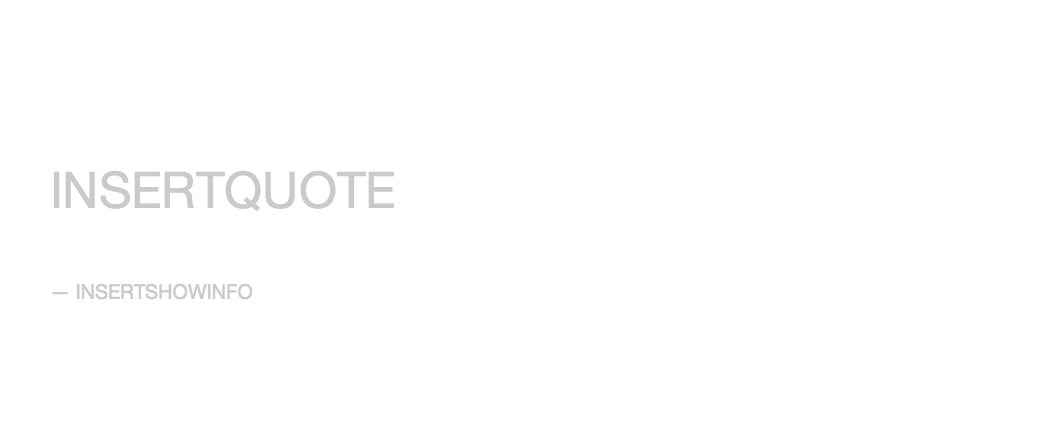
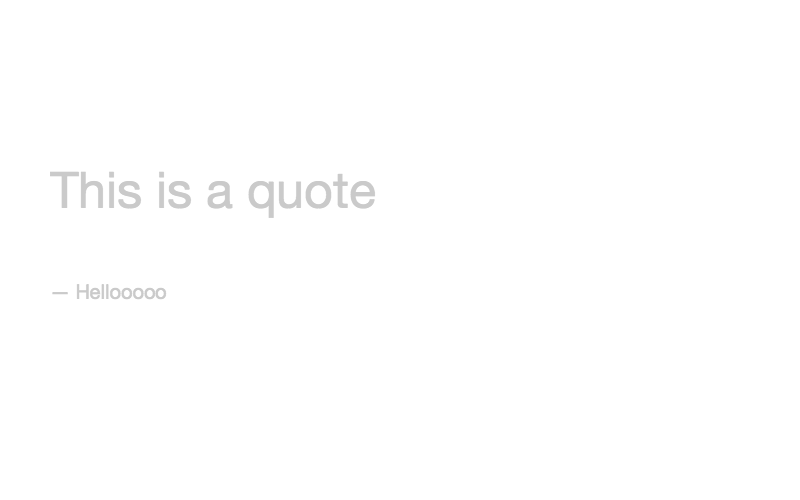
the text part

Changed region(s): [[0.0312, 0.3373, 0.4688, 0.4906], [0.0625, 0.6439, 0.25, 0.7052], [0.0938, 0.5519, 0.2188, 0.6132]]

diff --git a/fake.html b/fake.html
@@ -20,6 +20,10 @@ canvas {
   padding: 100px 50px 100px 50px;
 
 }
+
+.light {
+  background-color: transparent;
+}
 .g-text-wrapper p {
   font-size: 50px;
   font-family: "Helvetica Neue", Helvetica, Arial, sans-serif;;
@@ -37,19 +41,19 @@ p.nudge {
 
 
 </style>
-<!-- <script src="https://cdnjs.cloudflare.com/ajax/libs/d3/3.5.5/d3.min.js"></script> -->
+<script src="https://cdnjs.cloudflare.com/ajax/libs/d3/3.5.5/d3.min.js"></script>
 
 
 <body>
-<script src="d3.js"></script>
-<script src="d3-jetpack.js"></script>
+<!-- <script src="d3.js"></script> -->
+<script src="/javascripts/d3-jetpack.js"></script>
 
 <div class="g-text-wrapper">
   <p>For the last year, I've spent every working day, trying to figure out where a high school kid was, for an hour after school one day in 1999.</p>
   <p class="nudge">— Sarah Koenig, Serial, Episode 1</p>
 </div>
-<audio id="myAudioF" src="clip.m4a"></audio>
-<audio id="myAudioW" src="clip.m4a"></audio>
+<audio id="myAudioF" src="/media/clip.m4a"></audio>
+<audio id="myAudioW" src="/media/clip.m4a"></audio>
 
 <script>
 
@@ -58,11 +62,6 @@ var width = 1040,
     radius = 80;
 
 var fillColor, strokeColor;
-  
-var themeBackground = 'light';
-  if (themeBackground == 'light') {
-    d3.select(".g-text-wrapper").style("background-color", "transparent")
-  }
 
 window.onload = function(){
   ctx = new AudioContext();
@@ -123,12 +122,6 @@ window.onload = function(){
   var x = d3.scale.linear().domain([0, dataArray.length]).range([0, width])
   var y = d3.scale.linear().domain([0, 300]).range([0, height])
 
-
-  var themeBackground = 'light';
-  if (themeBackground == 'light') {
-    d3.select(".g-text-wrapper").style("background-color", "transparent")
-  }
-
   function renderFrame(theme) {
     requestAnimationFrame(renderFrame);
 
@@ -144,12 +137,13 @@ window.onload = function(){
 
       canvasCtx.lineTo(x(i), y(d)+d)
 
-      if (themeBackground == 'light') {
-        canvasCtx.strokeStyle = "rgba(0,0,0," + d/400 + ")"  
+      if (theme == "light") {
+        var strokeColor = "rgba(0,0,0," + d/400 + ")"  
       } else {
-        canvasCtx.strokeStyle = "rgba(255,255,255," + d/400 + ")"  
+        var strokeColor = "rgba(255,255,255," + d/400 + ")"  
       }
-      
+
+      canvasCtx.strokeStyle = strokeColor
     })
     canvasCtx.stroke()
 
@@ -161,10 +155,10 @@ window.onload = function(){
 
     canvasFCtx.clearRect(0, 0, canvas.width, canvas.height);
     for (var i = 0; i < analyserF.frequencyBinCount; i++) {
-        if (themeBackground == "light") {
-          fillColor = "rgba(0,0,0," + frequencyData[i]/1000 + ")"
+        if (theme == "light") {
+          fillColor = "rgba(0,0,0," + frequencyData[i]/400 + ")"
         } else {
-          fillColor = "rgba(255,255,255," + frequencyData[i]/1000 + ")"
+          fillColor = "rgba(255,255,255," + frequencyData[i]/400 + ")"
         }
 
         var radius = frequencyData[i]/Math.PI;

diff --git a/public/javascripts/capture.js b/public/javascripts/capture.js
@@ -10,12 +10,12 @@ var textcolor = system.args[3]
 if (textcolor == undefined) {
     textcolor = '#bcbcbc'
 }
-console.log("lsdfhlskdjflkds")
-page.content = '<style>.g-text-wrapper {  position: absolute;  width: 700px; height: 300px; padding: 100px 50px 100px 50px;}.g-text-wrapper p {  font-size: 50px;  font-family: "Helvetica Neue", Helvetica, Arial, sans-serif;;  font-weight: 100;  color:' + textcolor + ';  opacity: 0.8;  vertical-align: middle;  margin-top:60px;}p.nudge {  font-size: 20px;  letter-spacing: 0.8px;}</style><div class="g-text-wrapper">  <p>' + quote + '</p>  <p class="nudge">— ' + show + '</p></div>';
+
+page.content = '<style>.g-text-wrapper {  position: absolute;  width: 912px; height: 352px; padding: 100px 50px 100px 50px;}.g-text-wrapper p {  font-size: 50px;  font-family: "Helvetica Neue", Helvetica, Arial, sans-serif;;  font-weight: 100;  color:' + textcolor + ';  opacity: 0.8;  vertical-align: middle;  margin-top:60px;}p.nudge {  font-size: 20px;  letter-spacing: 0.8px;}</style><div class="g-text-wrapper">  <p>' + quote + '</p>  <p class="nudge">— ' + show + '</p></div>';
 
 page.open(address, function() {
   // being the actual size of the headless browser
-  page.viewportSize = { width: 800, height: 500 };
+  page.viewportSize = { width: 1012, height: 552 };
 
   var clipRect = page.evaluate(function(){
     return document.querySelector('.g-text-wrapper').getBoundingClientRect();

diff --git a/app.rb b/app.rb
@@ -16,6 +16,8 @@ class HelloWorldApp < Sinatra::Base
   end
 
   post '/tweet' do
+    `phantomjs public/javascripts/capture.js 'HELLLOOOOO' 'PLEASE WORK'`
+
     `ffmpeg -i public/media/bg.mov -i public/media/fore.png \
     -y -r 30 -filter_complex "[0:v][1:v] overlay=225:225:enable='between(t,0,20)'" \
     -pix_fmt yuv420p -c:a copy \
